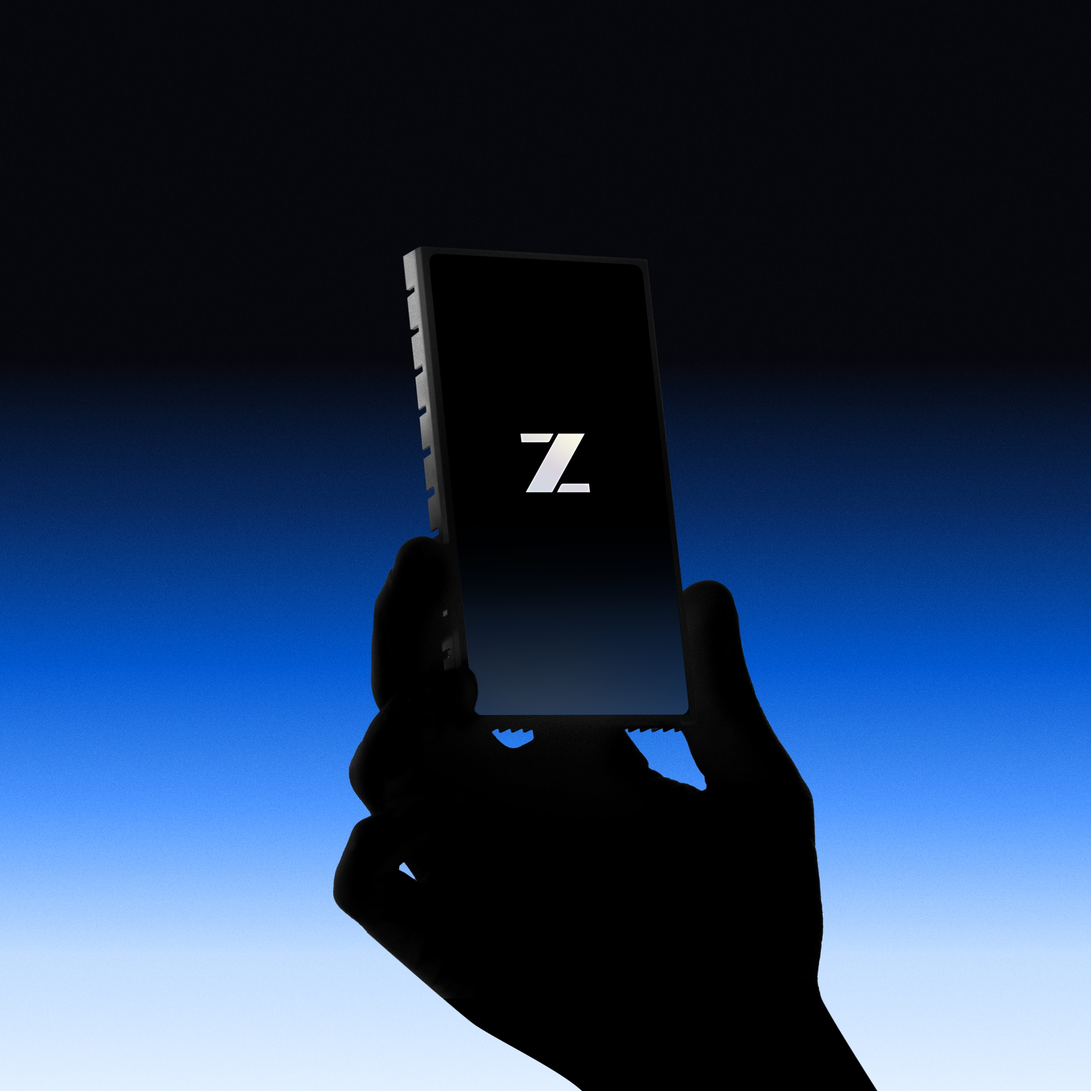
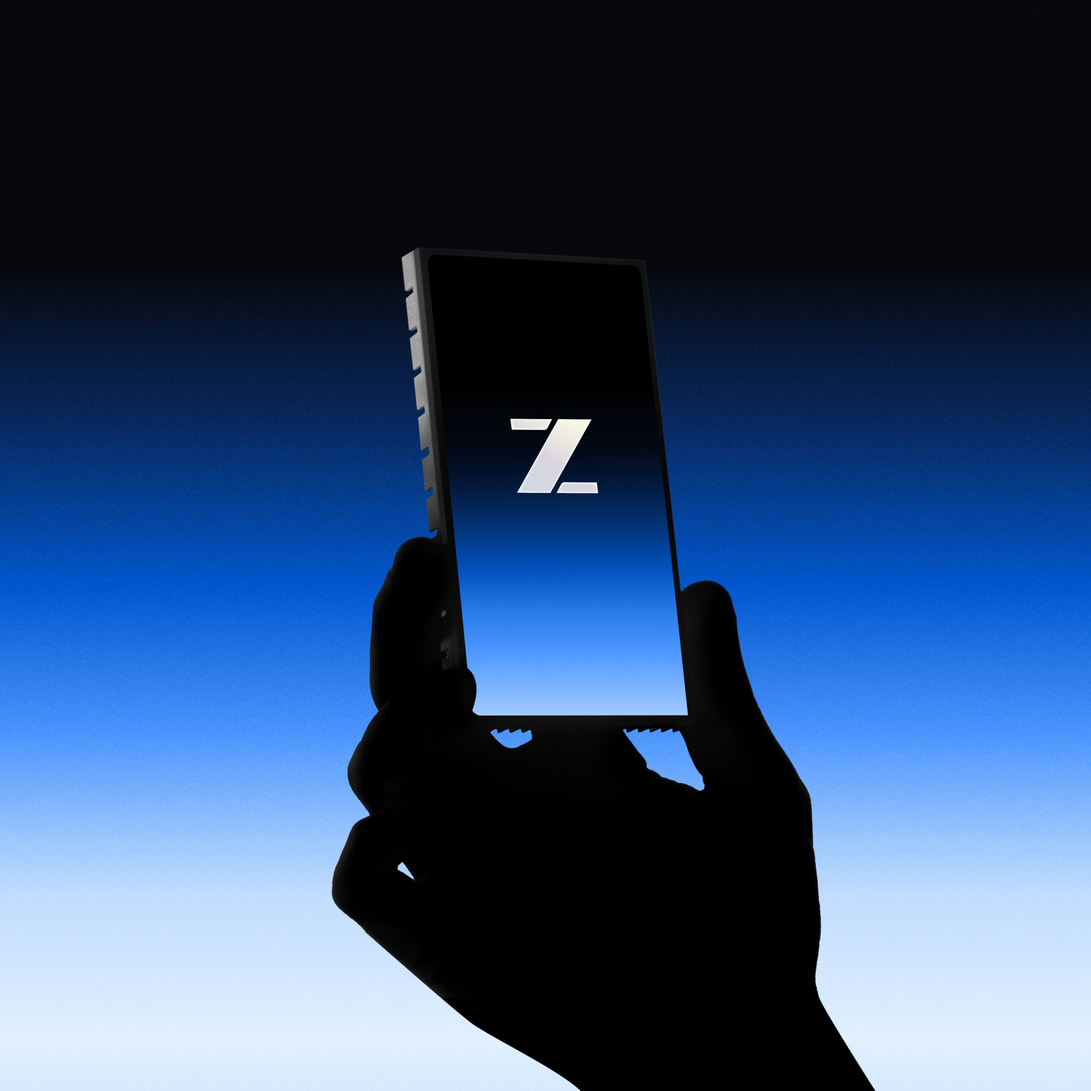
Add time to case study overview, correct project years, refresh Zhipu images

diff --git a/lib/work-projects.ts b/lib/work-projects.ts
@@ -44,7 +44,7 @@ export const workProjects: WorkProjectDetail[] = [
     narrative: [
       "随着企业规模的扩大，原有品牌形象已难以承载新的业务格局与国际化表达。此次为智谱进行品牌形象升级，从品牌战略与受众洞察出发，提炼「基座模型、学术、安全」的核心气质，完成多轮创意方案提报，并在反复对齐中推动共识落地了全新 logo 与完整 VI。",
     ],
-    gallery: ["1.jpg", "2.jpg", "3.jpg", "4.jpg", "5.jpg", "6.jpg", "7.jpg", "7-2.mp4", "8.jpg", "9.jpg", "10.jpg", "11.jpg", "12.jpg", "13.jpg", "14.jpg", "15.jpg", "16.jpg", "17.jpg", "18.jpg"],
+    gallery: ["1.jpg", "2.jpg", "3.jpg", "4.jpg", "5.jpg", "6.jpg", "7.jpg", "7-2.mp4", "8.jpg", "9.jpg", "10.jpg", "11.jpg", "12.jpg", "13.jpg", "14.jpg", "15.jpg", "16.jpg", "17.jpg", "18.jpg", "19.jpg"],
   },
   {
     slug: "zhipu-agent-openday",
@@ -79,7 +79,7 @@ export const workProjects: WorkProjectDetail[] = [
   {
     slug: "4paradigm-branding",
     tag: "Branding",
-    year: "2023",
+    year: "2021",
     title: "第四范式品牌全案设计",
     description: "Defining 4Paradigm's brand visual identity system.",
     role: "品牌设计负责人",
@@ -141,7 +141,7 @@ export const workProjects: WorkProjectDetail[] = [
   {
     slug: "4paradigm-culture-system",
     tag: "Culture&IP",
-    year: "2024",
+    year: "2022",
     title: "第四范式企业文化视觉系统",
     description: "A culture symbol system translating 4Paradigm's vision and mission into visual language.",
     role: "品牌设计师",
@@ -217,7 +217,7 @@ export const workProjects: WorkProjectDetail[] = [
   {
     slug: "tetellus-branding",
     tag: "Branding",
-    year: "2024",
+    year: "2018",
     title: "品牌设计 | Tetellus 谛造",
     description: "Building a full brand identity for a smart-technology company.",
     role: "品牌设计师",
@@ -236,7 +236,7 @@ export const workProjects: WorkProjectDetail[] = [
   {
     slug: "product-packaging-design",
     tag: "Packaging",
-    year: "2023 - 2024",
+    year: "2023",
     title: "合集｜产品包装设计",
     description: "A collection of product packaging design across multiple lifestyle brands.",
     role: "包装设计师",
@@ -273,7 +273,7 @@ export const workProjects: WorkProjectDetail[] = [
   {
     slug: "nine-ai-branding",
     tag: "Branding",
-    year: "2024",
+    year: "2018",
     title: "品牌设计 | 互联网金融品牌",
     description: "Logo and brand identity exploration for an AI-driven internet finance brand.",
     role: "品牌设计师",
@@ -292,7 +292,7 @@ export const workProjects: WorkProjectDetail[] = [
     slug: "food-brand-packaging-design",
     tag: "Branding",
     categories: ["Branding", "Packaging"],
-    year: "2025",
+    year: "2023",
     title: "食品品牌及包装设计",
     description: "Full brand identity and packaging design for a fresh noodle-soup food brand.",
     role: "品牌设计师",

diff --git a/app/work/[slug]/page.tsx b/app/work/[slug]/page.tsx
@@ -58,6 +58,10 @@ export default async function WorkProjectPage({ params }: PageProps<"/work/[slug
               <span className="value">{project.client}</span>
             </div>
             <div className="project-meta-item">
+              <span className="label">时间</span>
+              <span className="value">{project.year}</span>
+            </div>
+            <div className="project-meta-item">
               <span className="label">角色</span>
               <span className="value">{project.role}</span>
             </div>
